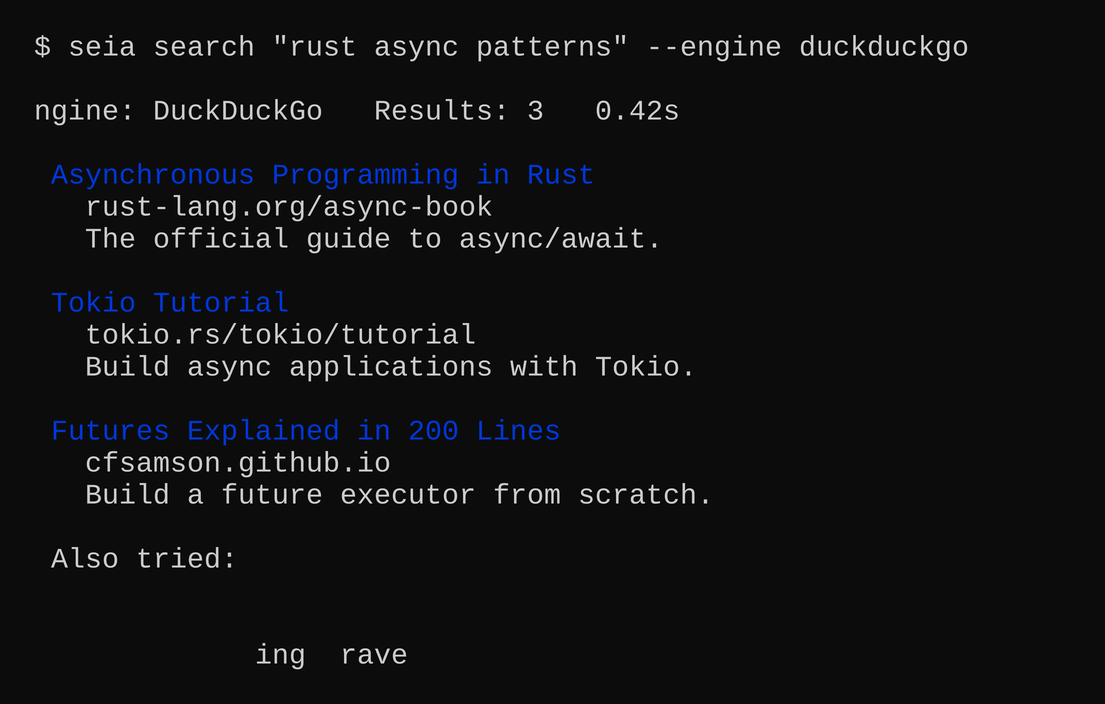
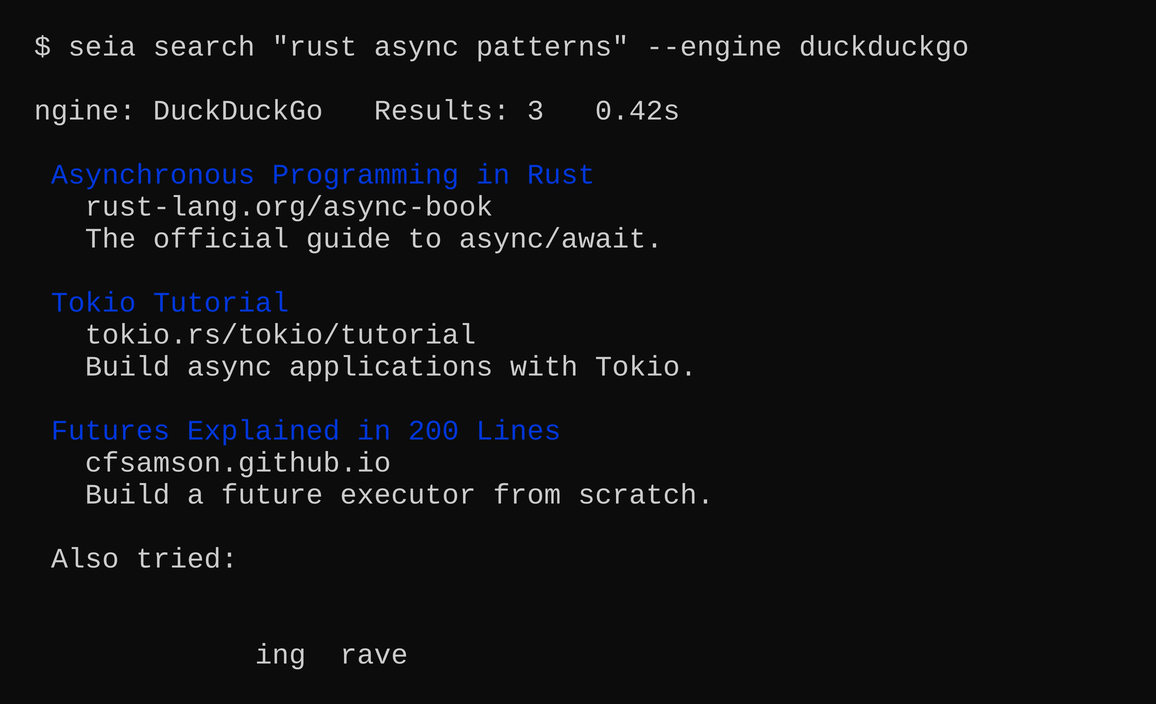
docs: <details> section moved before License

diff --git a/README.md b/README.md
@@ -80,9 +80,6 @@ just test-proxy  # run tests through localhost:7890 proxy (see tests/README)
 | [智谱 (Zhipu)](https://docs.bigmodel.cn/cn/guide/tools/web-search) | `ZHIPU_API_KEY` |
 | [博查 (Bocha)](https://open.bochaai.com/docs) | `BOCHA_API_KEY` |
 
-## License
-
-SySL-1.0 (Synthetic Source License). See [LICENSE](./LICENSE).
 
 <details>
 <summary>Screenshots</summary>
@@ -90,3 +87,7 @@ SySL-1.0 (Synthetic Source License). See [LICENSE](./LICENSE).
 <p align="center"><img src="res/search_solarized_dark.png" alt="seia snapshot" height="400" /></p>
 
 </details>
+
+## License
+
+SySL-1.0 (Synthetic Source License). See [LICENSE](./LICENSE).